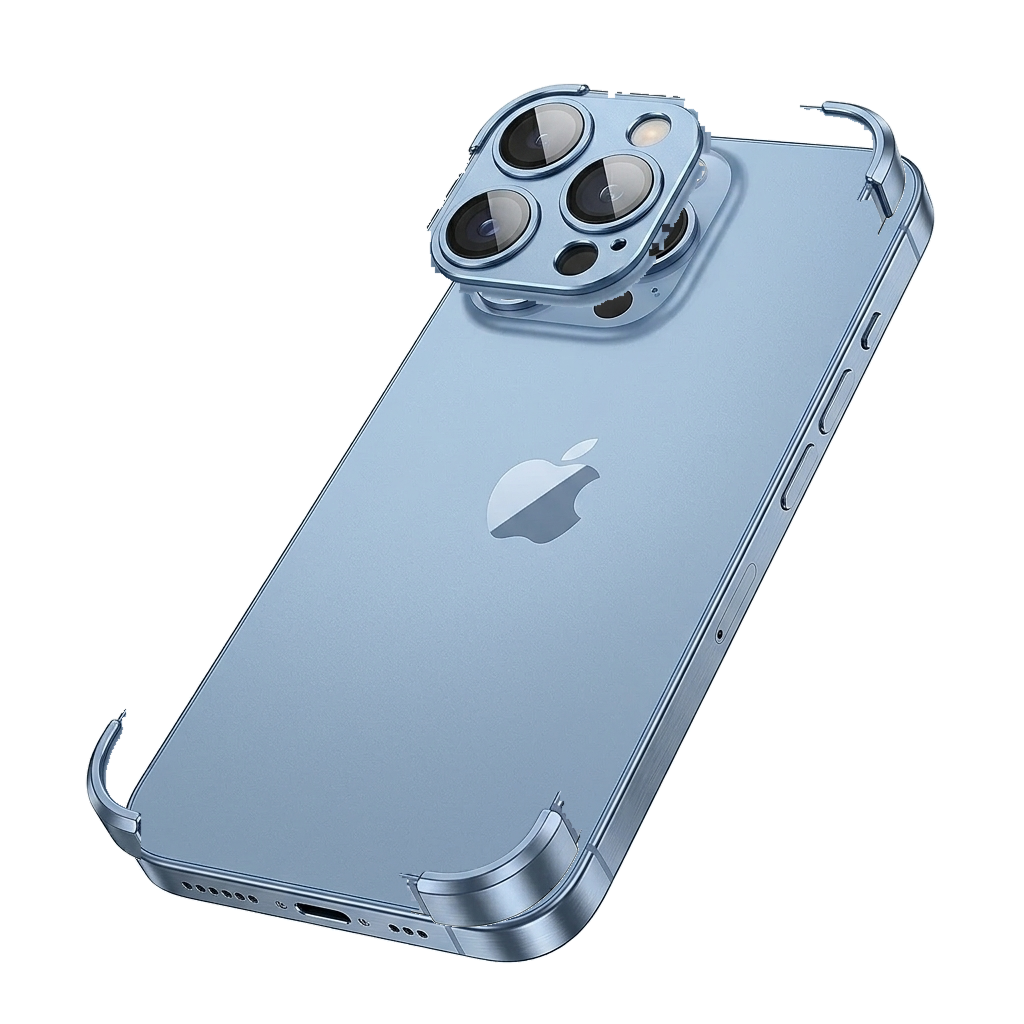
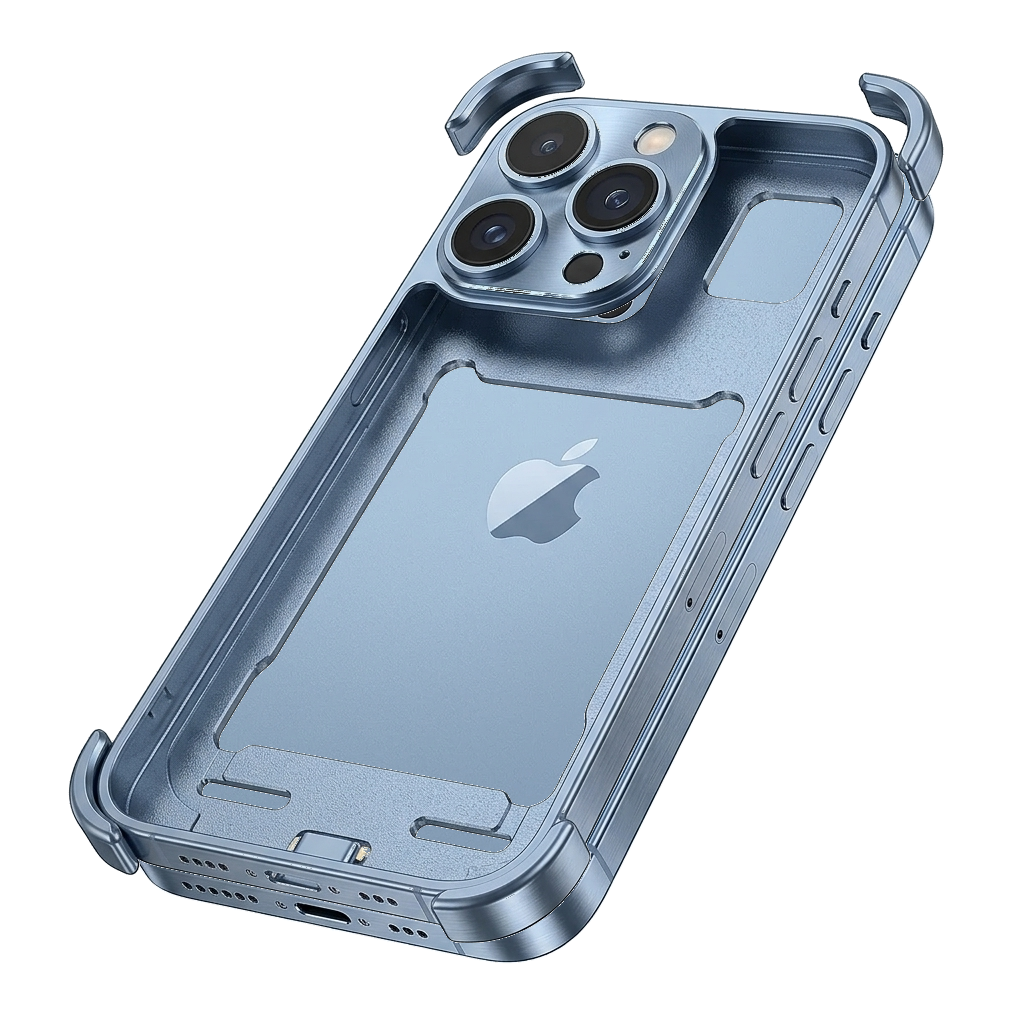
fix(hero-cta): resolve desktop button misplacement with uniform slide CTA sizes, remove mobile arrow button, enlarge navbar crest with drop-shadow, and fix PDP label truncation

Changed region(s): [[0.0625, 0.0312, 0.9375, 0.9375]]

diff --git a/styles.css b/styles.css
@@ -159,15 +159,17 @@ img {
 }
 
 .logo-img {
-  height: 36px;
+  height: clamp(44px, 3.5vw, 50px);
   width: auto;
   max-width: 150px;
   object-fit: contain;
-  transition: transform var(--transition-fast);
+  filter: drop-shadow(0 3px 6px rgba(0, 0, 0, 0.45));
+  transition: transform var(--transition-fast), filter var(--transition-fast);
 }
 
 .brand-logo:hover .logo-img {
-  transform: scale(1.04);
+  transform: scale(1.06);
+  filter: drop-shadow(0 4px 10px rgba(0, 0, 0, 0.6));
 }
 
 .logo-text {
@@ -883,15 +885,16 @@ img {
 }
 
 .hero-contact-btn {
-  width: auto;
-  min-width: clamp(168px, 13.8vw, 232px);
-  padding: 0 clamp(24px, 2.2vw, 36px);
+  width: clamp(170px, 13vw, 212px);
+  min-width: clamp(170px, 13vw, 212px);
+  max-width: clamp(170px, 13vw, 212px);
+  padding: 0 16px;
   height: clamp(54px, 4.64vw, 78px);
   display: inline-flex;
   align-items: center;
   justify-content: center;
   font-family: var(--font-heading, 'Plus Jakarta Sans', sans-serif);
-  font-size: clamp(0.8125rem, 0.95vw, 1.0625rem);
+  font-size: clamp(0.8125rem, 0.92vw, 1.0rem);
   font-weight: 800;
   letter-spacing: 0.04em;
   background: #18191c;
@@ -901,6 +904,9 @@ img {
   transition: transform var(--transition-fast), background-color var(--transition-fast), box-shadow var(--transition-fast);
   text-decoration: none;
   white-space: nowrap;
+  overflow: hidden;
+  text-overflow: ellipsis;
+  text-align: center;
 }
 
 .hero-contact-btn:hover {
@@ -1858,16 +1864,7 @@ img {
 }
 
 .webgl-hud-overlay {
-  position: absolute;
-  bottom: 12px;
-  left: 16px;
-  right: 16px;
-  display: flex;
-  align-items: center;
-  justify-content: space-between;
-  gap: 12px;
-  pointer-events: none;
-  z-index: 5;
+  display: none !important;
 }
 
 .ugc-status-pill {
@@ -4154,17 +4151,16 @@ img {
   display: inline-flex;
   align-items: center;
   gap: 8px;
-  padding: 6px 14px 6px 10px;
-  background: rgba(255, 255, 255, 0.92);
-  backdrop-filter: blur(14px);
-  -webkit-backdrop-filter: blur(14px);
+  padding: 7px 16px 7px 12px;
+  background: #FFFFFF;
   border-radius: 999px;
-  border: 1.5px solid rgba(255, 255, 255, 0.85);
-  box-shadow: 0 6px 20px rgba(0, 0, 0, 0.08), 0 2px 6px rgba(0, 0, 0, 0.04);
-  font-family: var(--font-body);
-  font-size: 0.8125rem;
-  font-weight: 700;
-  color: #18181A;
+  border: 1.5px solid rgba(15, 23, 42, 0.12);
+  box-shadow: 0 8px 24px rgba(0, 0, 0, 0.16), 0 2px 6px rgba(0, 0, 0, 0.08);
+  font-family: var(--font-heading, 'Plus Jakarta Sans', sans-serif);
+  font-size: 0.875rem;
+  font-weight: 800;
+  letter-spacing: 0.02em;
+  color: #0F172A;
   cursor: pointer;
   transition: transform 0.25s cubic-bezier(0.16, 1, 0.3, 1), box-shadow 0.25s ease, background 0.25s ease, border-color 0.25s ease;
   white-space: nowrap;
@@ -5935,21 +5931,7 @@ img {
     transform: scale(0.96) !important;
   }
   .hero-arrow-btn {
-    width: 42px !important;
-    height: 42px !important;
-    border-radius: 50% !important;
-    background: rgba(255, 255, 255, 0.22) !important;
-    backdrop-filter: blur(10px) !important;
-    -webkit-backdrop-filter: blur(10px) !important;
-    border: 1px solid rgba(255, 255, 255, 0.35) !important;
-    color: #FFFFFF !important;
-    display: inline-flex !important;
-    align-items: center !important;
-    justify-content: center !important;
-    flex-shrink: 0 !important;
-    box-shadow: 0 4px 14px rgba(0, 0, 0, 0.2) !important;
-    text-decoration: none !important;
-    margin: 0 !important;
+    display: none !important;
   }
   .hero-carousel-nav {
     position: static !important;
@@ -6661,19 +6643,7 @@ img {
     text-decoration: none !important;
   }
   .hero-arrow-btn {
-    width: 38px !important;
-    height: 38px !important;
-    border-radius: 50% !important;
-    background: rgba(255, 255, 255, 0.2) !important;
-    backdrop-filter: blur(10px) !important;
-    -webkit-backdrop-filter: blur(10px) !important;
-    border: 1px solid rgba(255, 255, 255, 0.35) !important;
-    color: #FFFFFF !important;
-    display: inline-flex !important;
-    align-items: center !important;
-    justify-content: center !important;
-    flex-shrink: 0 !important;
-    margin: 0 !important;
+    display: none !important;
   }
   .hero-carousel-nav {
     position: static !important;
@@ -6719,8 +6689,7 @@ img {
     padding: 0 10px !important;
   }
   .hero-arrow-btn {
-    width: 34px !important;
-    height: 34px !important;
+    display: none !important;
   }
   .hero-cta-group {
     max-width: calc(100% - 66px) !important;

diff --git a/index.html b/index.html
@@ -208,7 +208,7 @@
             </div>
 
             <!-- BANNER SLIDE 2: Shockproof MagSafe Armor & Snap-On Leather Wallet Lifestyle -->
-            <div class="hero-slide" data-slide="1" data-theme="magsafe" data-btn-text="SHOP MAGSAFE SERIES" data-btn-link="collections.html?cat=iphone-cases">
+            <div class="hero-slide" data-slide="1" data-theme="magsafe" data-btn-text="SHOP MAGSAFE" data-btn-link="collections.html?cat=iphone-cases">
               <div class="hero-content">
                 <div class="hero-kicker">
                   <span class="hero-kicker-num">02</span>
@@ -232,7 +232,7 @@
             </div>
 
             <!-- BANNER SLIDE 3: Diamond 9H Tempered Glass & Titanium Apple Watch Lifestyle -->
-            <div class="hero-slide" data-slide="2" data-theme="glass" data-btn-text="EXPLORE GLASS CASES" data-btn-link="#glass-case">
+            <div class="hero-slide" data-slide="2" data-theme="glass" data-btn-text="SHOP GLASS" data-btn-link="#glass-case">
               <div class="hero-content">
                 <div class="hero-kicker">
                   <span class="hero-kicker-num">03</span>
@@ -256,7 +256,7 @@
             </div>
 
             <!-- BANNER SLIDE 4: Artistic & Bohemian Prints with Beaded Phone Charms Lifestyle -->
-            <div class="hero-slide" data-slide="3" data-theme="boho" data-btn-text="EXPLORE CHARMS & CASES" data-btn-link="collections.html?cat=cover-charms">
+            <div class="hero-slide" data-slide="3" data-theme="boho" data-btn-text="SHOP CHARMS" data-btn-link="collections.html?cat=cover-charms">
               <div class="hero-content">
                 <div class="hero-kicker">
                   <span class="hero-kicker-num">04</span>

diff --git a/mobile_scoped.css b/mobile_scoped.css
@@ -254,18 +254,7 @@
   display: inline-block;
 }
 .mobile-view .hero-arrow-btn {
-  width: 44px;
-    height: 44px;
-    border-radius: 50%;
-    background: #E0EBF7;
-    color: #0F172A;
-    border: none;
-    box-shadow: 0 2px 8px rgba(0, 0, 0, 0.06);
-    display: flex;
-    align-items: center;
-    justify-content: center;
-    text-decoration: none;
-    margin-bottom: 0;
+  display: none !important;
 }
 .mobile-view .hero-carousel-nav {
   position: absolute;
@@ -923,17 +912,7 @@
     box-shadow: 0 4px 14px rgba(15, 23, 42, 0.25) !important;
 }
 .mobile-view .hero-arrow-btn {
-  width: 44px !important;
-    height: 44px !important;
-    border-radius: 50% !important;
-    background: #E0EBF7 !important;
-    color: #0F172A !important;
-    border: none !important;
-    box-shadow: 0 2px 8px rgba(0, 0, 0, 0.06) !important;
-    display: flex !important;
-    align-items: center !important;
-    justify-content: center !important;
-    text-decoration: none !important;
+  display: none !important;
 }
 .mobile-view .hero-carousel-nav {
   position: absolute !important;
@@ -1416,11 +1395,7 @@
     gap: 6px !important;
 }
 .mobile-view .hero-arrow-btn {
-  width: 38px !important;
-    height: 38px !important;
-    border-radius: 50% !important;
-    flex-shrink: 0 !important;
-    margin-bottom: 0 !important;
+  display: none !important;
 }
 .mobile-view .hero-carousel-nav {
   right: 14px !important;

diff --git a/webgl_exploded.js b/webgl_exploded.js
@@ -120,7 +120,7 @@
         name: 'Frameless Bumper & 3D Lens Armor',
         path: 'assets/blue_protector_layer.png',
         key: 'protector',
-        exploded: { x: -35, y: 38, z: 70 },
+        exploded: { x: -30, y: 32, z: 65 },
         assembled: { x: 0, y: 0, z: 2 }
       }
     ];
@@ -159,23 +159,14 @@
     }
 
     layerConfigs.forEach((cfg, index) => {
-      // Use fallback base64 data URI if available for instant zero-latency loading
-      const fallbackData = window.CASE_LAYER_ASSETS && window.CASE_LAYER_ASSETS[cfg.key];
-      const primaryUrl = fallbackData || cfg.path;
-
       textureLoader.load(
-        primaryUrl,
+        cfg.path,
         function (texture) {
           applyTexture(texture, index, cfg);
         },
         undefined,
         function (err) {
-          console.warn('Initial texture load failed for ' + cfg.path + ', attempting fallback...', err);
-          if (cfg.path && primaryUrl !== cfg.path) {
-            textureLoader.load(cfg.path, function (fallbackTexture) {
-              applyTexture(fallbackTexture, index, cfg);
-            });
-          }
+          console.warn('Texture load failed for ' + cfg.path, err);
         }
       );
     });

diff --git a/product.html b/product.html
@@ -1613,18 +1613,17 @@
         display: flex !important;
         align-items: baseline !important;
         justify-content: space-between !important;
-        gap: 6px !important;
+        flex-wrap: wrap !important;
+        gap: 4px 8px !important;
         font-size: 0.825rem !important;
       }
       .pdp-option-selected-label {
         font-size: 0.75rem !important;
         color: #2563EB !important;
-        font-weight: 600 !important;
+        font-weight: 700 !important;
         text-align: right !important;
-        max-width: 45% !important;
-        overflow: hidden !important;
-        text-overflow: ellipsis !important;
         white-space: nowrap !important;
+        flex-shrink: 0 !important;
       }
 
       /* Finishes & Swatches */
